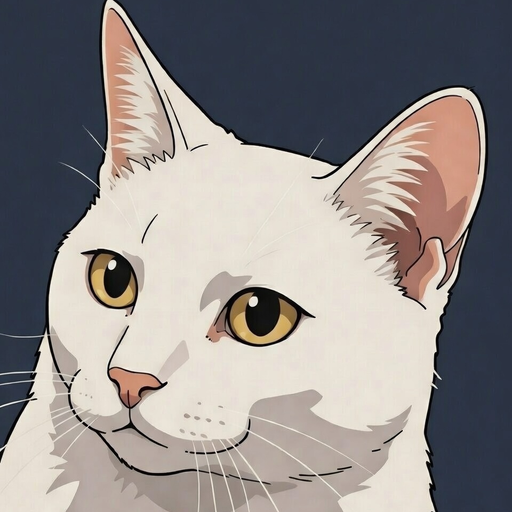
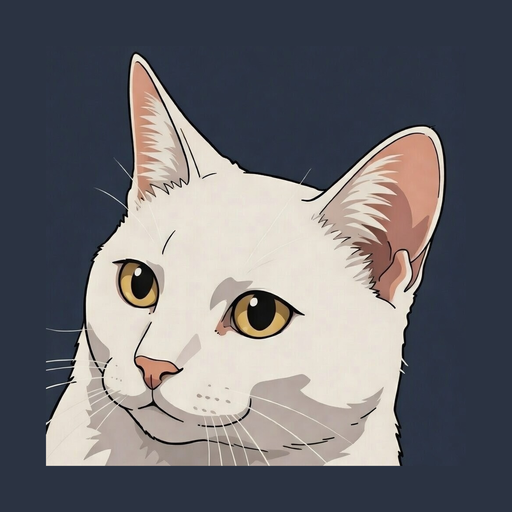
Update Tasknari

diff --git a/index.html b/index.html
@@ -642,7 +642,7 @@
     <button id="splashConfirm" class="btn btn-primary" style="width:100%;margin-top:4px">Log In</button>
     <button id="splashOffline" class="btn hidden" style="width:100%;margin-top:8px;background:transparent;border-color:var(--border);color:var(--muted-color)">Work Offline (use last saved data)</button>
     <div style="display:flex;align-items:center;justify-content:space-between;margin-top:6px">
-      <div style="font-size:.72rem;color:#3d5066">updated Mar 8 2026 17:18:02</div>
+      <div style="font-size:.72rem;color:#3d5066">updated Mar 8 2026 17:22:28</div>
       <button id="splashCheckUpdate" style="background:none;border:none;font-size:.72rem;color:#3d5066;cursor:pointer;padding:0;text-decoration:underline;text-underline-offset:2px">Check for update</button>
     </div>
   </div>
